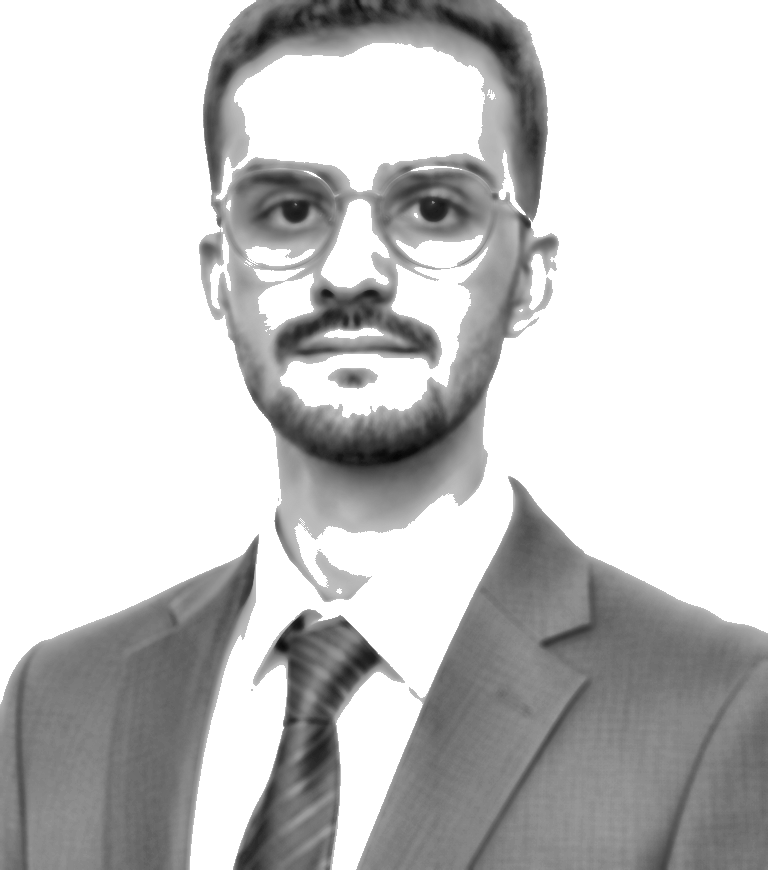
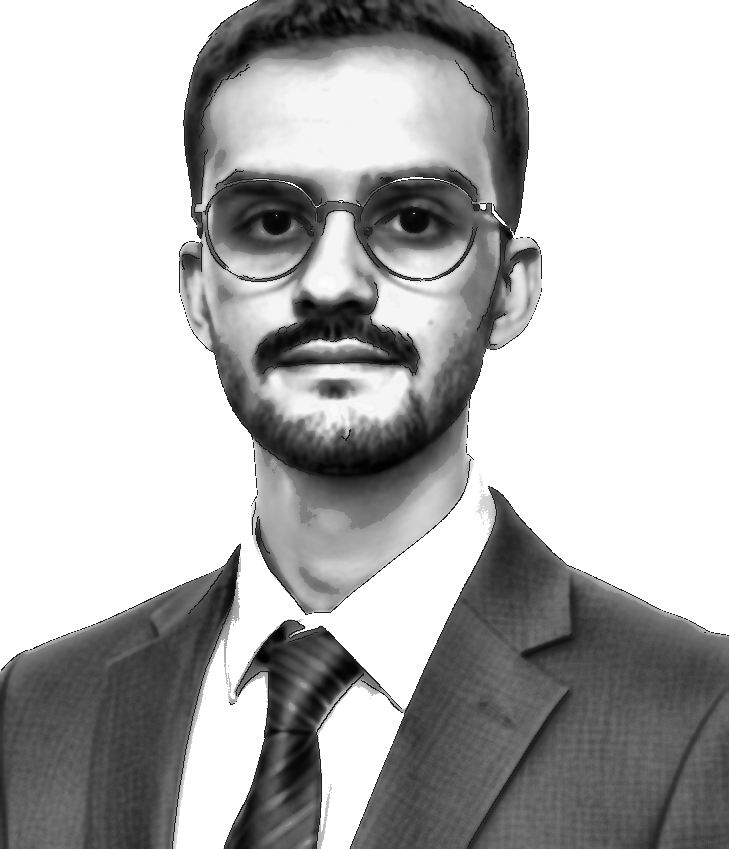
style: crisp ASCII portrait with sharp glasses, eyes, and feature recognition

diff --git a/scripts/make_ascii_svg.py b/scripts/make_ascii_svg.py
@@ -2,66 +2,61 @@ import os
 import cv2
 import numpy as np
 
-RAMP = " .`:-=+*cs#%@"
+RAMP = " .:-=+*#%@"
 
-def process_portrait_to_ascii(photo_path, char_width=68):
-    img = cv2.imread(photo_path)
+def prepped_image_to_ascii(prepped_path, char_width=72):
+    img = cv2.imread(prepped_path, cv2.IMREAD_GRAYSCALE)
     if img is None:
-        raise FileNotFoundError(f"Could not load {photo_path}")
+        raise FileNotFoundError(f"Could not load {prepped_path}")
         
-    h, w, _ = img.shape
+    h, w = img.shape
+    aspect_ratio = h / w
+    # Monospace aspect ~ 0.50
+    char_height = int(char_width * aspect_ratio * 0.50)
     
-    # Crop to head and torso (similar to reference)
-    crop_top = int(h * 0.02)
-    crop_bottom = int(h * 0.88)
-    crop_left = int(w * 0.05)
-    crop_right = int(w * 0.95)
-    cropped = img[crop_top:crop_bottom, crop_left:crop_right]
+    resized = cv2.resize(img, (char_width, char_height), interpolation=cv2.INTER_AREA)
     
-    gray = cv2.cvtColor(cropped, cv2.COLOR_BGR2GRAY)
-    
-    # Calculate aspect ratio (monospace chars are ~2.0x taller than wide)
-    aspect_ratio = gray.shape[0] / gray.shape[1]
-    char_height = int(char_width * aspect_ratio * 0.52)
-    
-    resized = cv2.resize(gray, (char_width, char_height), interpolation=cv2.INTER_AREA)
-    
-    # Background thresholding:
-    # Any pixel above 215 is background -> map to pure space " "
-    # For subject pixels: invert brightness (dark hair/beard -> high density @, %; light skin -> low density -, .)
     lines = []
-    ramp_len = len(RAMP)
-    
     for y in range(char_height):
         row_str = ""
         for x in range(char_width):
             val = resized[y, x]
-            if val >= 215:
-                # Background -> empty space
-                row_str += " "
+            if val >= 235:
+                char = " "
+            elif val >= 205:
+                char = "."
+            elif val >= 175:
+                char = ":"
+            elif val >= 145:
+                char = "-"
+            elif val >= 120:
+                char = "="
+            elif val >= 95:
+                char = "+"
+            elif val >= 70:
+                char = "*"
+            elif val >= 45:
+                char = "#"
+            elif val >= 25:
+                char = "%"
             else:
-                # Subject pixel: map 0..214 to density ramp
-                # val=0 (black hair/suit) -> @ (index ramp_len-1)
-                # val=214 (light skin) -> . or space
-                norm = (214 - val) / 214.0
-                idx = int(norm * (ramp_len - 1))
-                idx = max(0, min(ramp_len - 1, idx))
-                row_str += RAMP[idx]
+                char = "@"
+            row_str += char
         lines.append(row_str)
         
     return lines, char_width, char_height
 
 def generate_exact_ascii_svg(lines, width, height, output_path="avi-ascii.svg"):
-    char_w = 5.2
+    char_w = 4.8
     char_h = 8.5
-    padding_x = 18
+    padding_x = 14
     padding_y = 35
     
     svg_w = 370
     svg_h = 520
     
     total_rows = len(lines)
-    row_delay = 0.03
+    row_delay = 0.025
     anim_duration = 0.10
     
     svg = []
@@ -70,7 +65,7 @@ def generate_exact_ascii_svg(lines, width, height, output_path="avi-ascii.svg"):
     svg.append('    .bg { fill: #0d1117; rx: 10px; ry: 10px; }')
     svg.append('    .border { stroke: #30363d; stroke-width: 1; fill: none; rx: 10px; ry: 10px; }')
     svg.append('    .title-text { font-family: ui-monospace, SFMono-Regular, Consolas, monospace; font-size: 11px; fill: #8b949e; }')
-    svg.append('    .ascii-text { font-family: ui-monospace, SFMono-Regular, "SF Mono", Menlo, Consolas, monospace; font-size: 8.5px; fill: #c9d1d9; white-space: pre; }')
+    svg.append('    .ascii-text { font-family: ui-monospace, SFMono-Regular, "SF Mono", Menlo, Consolas, monospace; font-size: 8.5px; fill: #58a6ff; white-space: pre; }')
     svg.append('    .prompt-user { font-family: ui-monospace, SFMono-Regular, Consolas, monospace; font-size: 11px; font-weight: bold; fill: #58a6ff; }')
     svg.append('    .prompt-path { font-family: ui-monospace, SFMono-Regular, Consolas, monospace; font-size: 11px; fill: #79c0ff; }')
     svg.append('    .prompt-cmd { font-family: ui-monospace, SFMono-Regular, Consolas, monospace; font-size: 11px; fill: #c9d1d9; }')
@@ -119,9 +114,9 @@ def generate_exact_ascii_svg(lines, width, height, output_path="avi-ascii.svg"):
     os.makedirs(os.path.dirname(output_path) if os.path.dirname(output_path) else ".", exist_ok=True)
     with open(output_path, "w", encoding="utf-8") as f:
         f.write("\n".join(svg))
-    print(f"Exact ASCII Portrait SVG saved to {output_path}")
+    print(f"High Detail ASCII Portrait SVG saved to {output_path}")
 
 if __name__ == "__main__":
-    photo = os.path.join("photo", "portrait-professionnel (1).png")
-    lines, w, h = process_portrait_to_ascii(photo, char_width=66)
+    prepped = os.path.join("data", "source-prepped.png")
+    lines, w, h = prepped_image_to_ascii(prepped, char_width=72)
     generate_exact_ascii_svg(lines, w, h, "avi-ascii.svg")

diff --git a/scripts/prep_photo.py b/scripts/prep_photo.py
@@ -1,46 +1,49 @@
+import os
 import cv2
 import numpy as np
-import os
 
-def process_portrait(input_path, output_path, width=80):
+def prep_portrait_photo(input_path, output_path):
     img = cv2.imread(input_path)
     if img is None:
-        raise ValueError(f"Could not load {input_path}")
+        raise FileNotFoundError(f"Could not load {input_path}")
         
     h, w, _ = img.shape
     
-    # 1. Crop to focus on face and upper chest for max detail
-    # The image is 1080x1200 approx. Crop top 5% to 85%
-    crop_top = int(h * 0.05)
-    crop_bottom = int(h * 0.85)
-    crop_left = int(w * 0.10)
-    crop_right = int(w * 0.90)
-    
+    # 1. Crop to focus on head and upper chest for maximum facial resolution
+    crop_top = int(h * 0.04)
+    crop_bottom = int(h * 0.82)
+    crop_left = int(w * 0.12)
+    crop_right = int(w * 0.88)
     cropped = img[crop_top:crop_bottom, crop_left:crop_right]
     
     # 2. Convert to grayscale
     gray = cv2.cvtColor(cropped, cv2.COLOR_BGR2GRAY)
     
-    # 3. Bilateral filter to smooth skin noise while preserving sharp edges (glasses, beard, eyes)
-    filtered = cv2.bilateralFilter(gray, d=9, sigmaColor=75, sigmaSpace=75)
+    # 3. Bilateral Filter to smooth skin noise while preserving sharp feature edges (glasses, eyes, beard)
+    filtered = cv2.bilateralFilter(gray, d=7, sigmaColor=50, sigmaSpace=50)
     
-    # 4. Enhance contrast using CLAHE
-    clahe = cv2.createCLAHE(clipLimit=2.5, tileGridSize=(8,8))
-    contrast = clahe.apply(filtered)
+    # 4. Boost local contrast with CLAHE (Contrast-Limited Adaptive Histogram Equalization)
+    clahe = cv2.createCLAHE(clipLimit=3.5, tileGridSize=(8,8))
+    enhanced = clahe.apply(filtered)
     
-    # 5. Non-linear gamma curve to separate skin (bright/clean) from dark features (glasses, hair, beard, suit)
-    # Skin in portrait is around 140-220 brightness. We want skin to be very light (> 230).
-    gamma = 1.6
-    invGamma = 1.0 / gamma
-    table = np.array([((i / 255.0) ** invGamma) * 255 for i in np.arange(0, 256)]).astype("uint8")
-    adjusted = cv2.LUT(contrast, table)
+    # 5. Extract Canny edges for critical facial features (glasses frame, eyes, eyebrows, beard line, tie)
+    edges = cv2.Canny(filtered, 40, 120)
     
-    # Background in original photo is white/light gray (> 210) -> force to pure 255 (white = spaces)
-    adjusted[adjusted > 190] = 255
+    # 6. Combine enhanced image with edges to make facial features stand out sharply in ASCII
+    combined = enhanced.copy()
+    combined[edges > 0] = np.minimum(combined[edges > 0], 30) # Force facial edges to be dark
+    
+    # 7. Isolate background: photo background is light gray/white (> 200) -> force to pure 255 (white = space " ")
+    bg_mask = (cropped[:, :, 0] > 195) & (cropped[:, :, 1] > 195) & (cropped[:, :, 2] > 195)
+    combined[bg_mask] = 255
+    
+    # Stretch skin tones (140-200) towards brighter end so skin is clean with subtle dots
+    skin_mask = (combined >= 130) & (combined < 240)
+    combined[skin_mask] = np.clip(combined[skin_mask] * 1.15, 130, 245).astype(np.uint8)
     
     os.makedirs(os.path.dirname(output_path), exist_ok=True)
-    cv2.imwrite(output_path, adjusted)
-    print("Processed portrait saved.")
+    cv2.imwrite(output_path, combined)
+    print(f"Prepped portrait saved to {output_path}")
 
 if __name__ == "__main__":
-    process_portrait("photo/portrait-professionnel (1).png", "data/source-prepped.png")
+    prep_portrait_photo(os.path.join("photo", "portrait-professionnel (1).png"), os.path.join("data", "source-prepped.png"))
